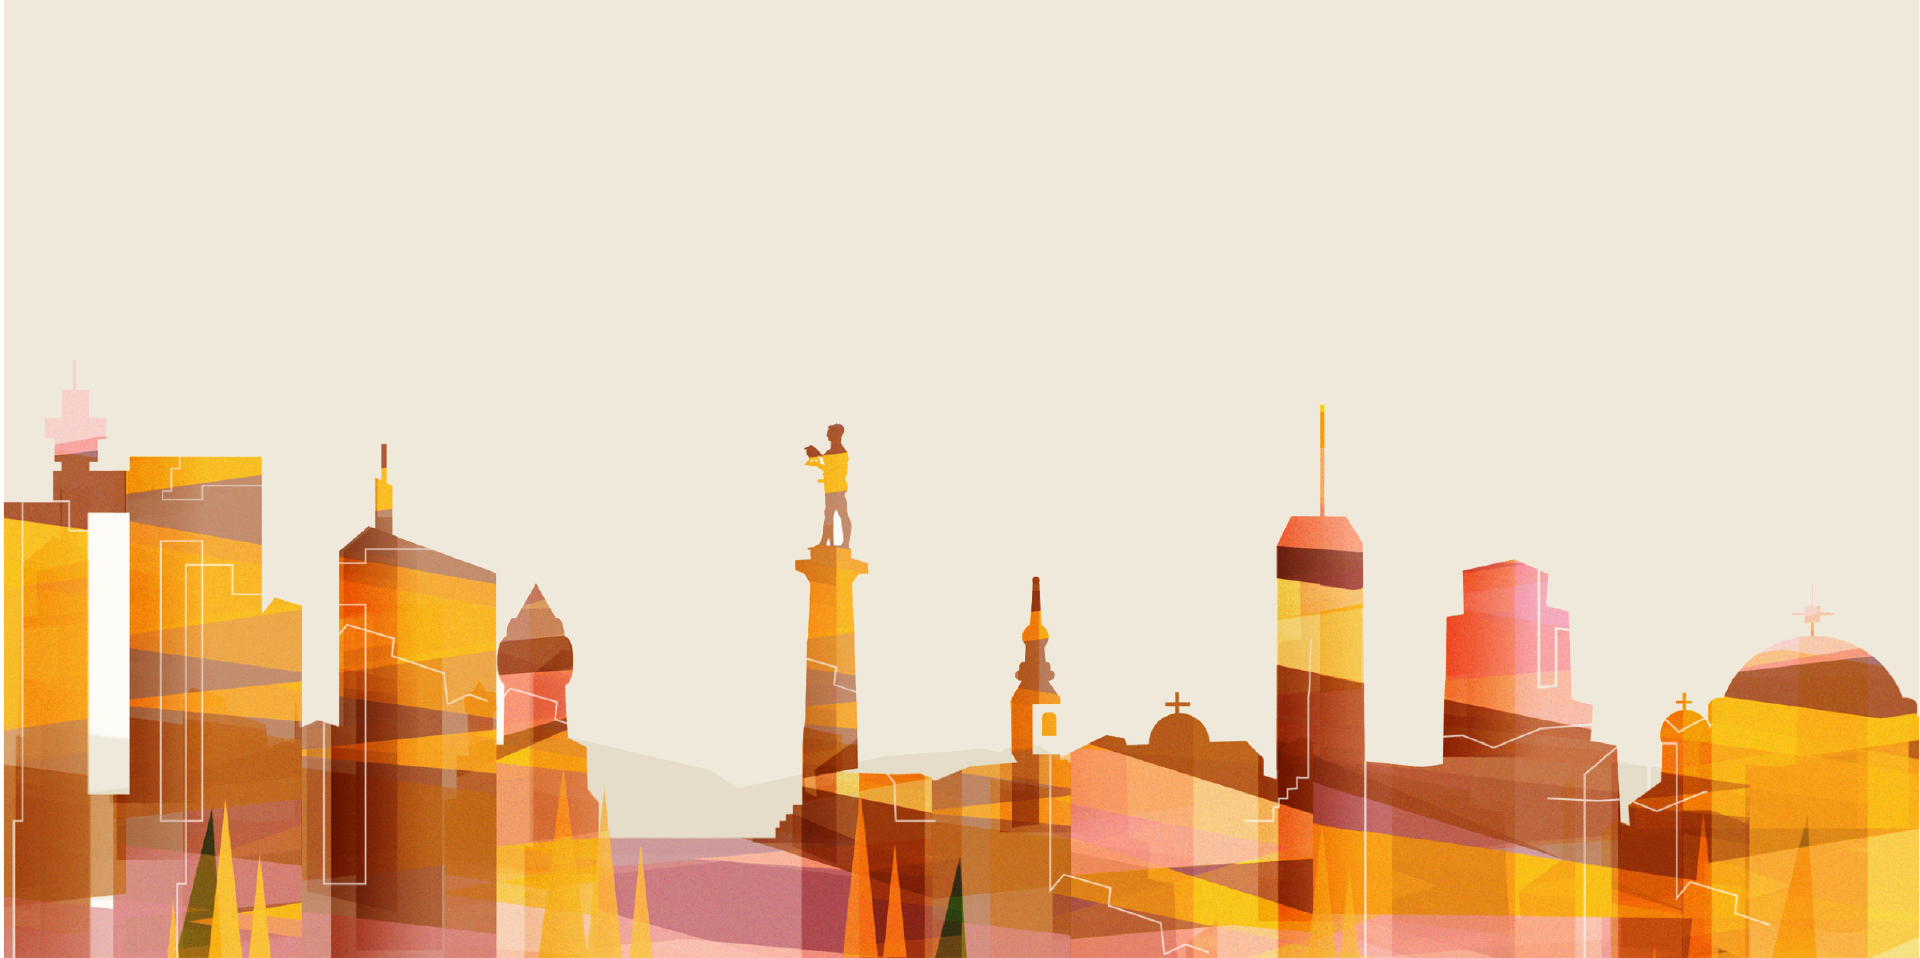
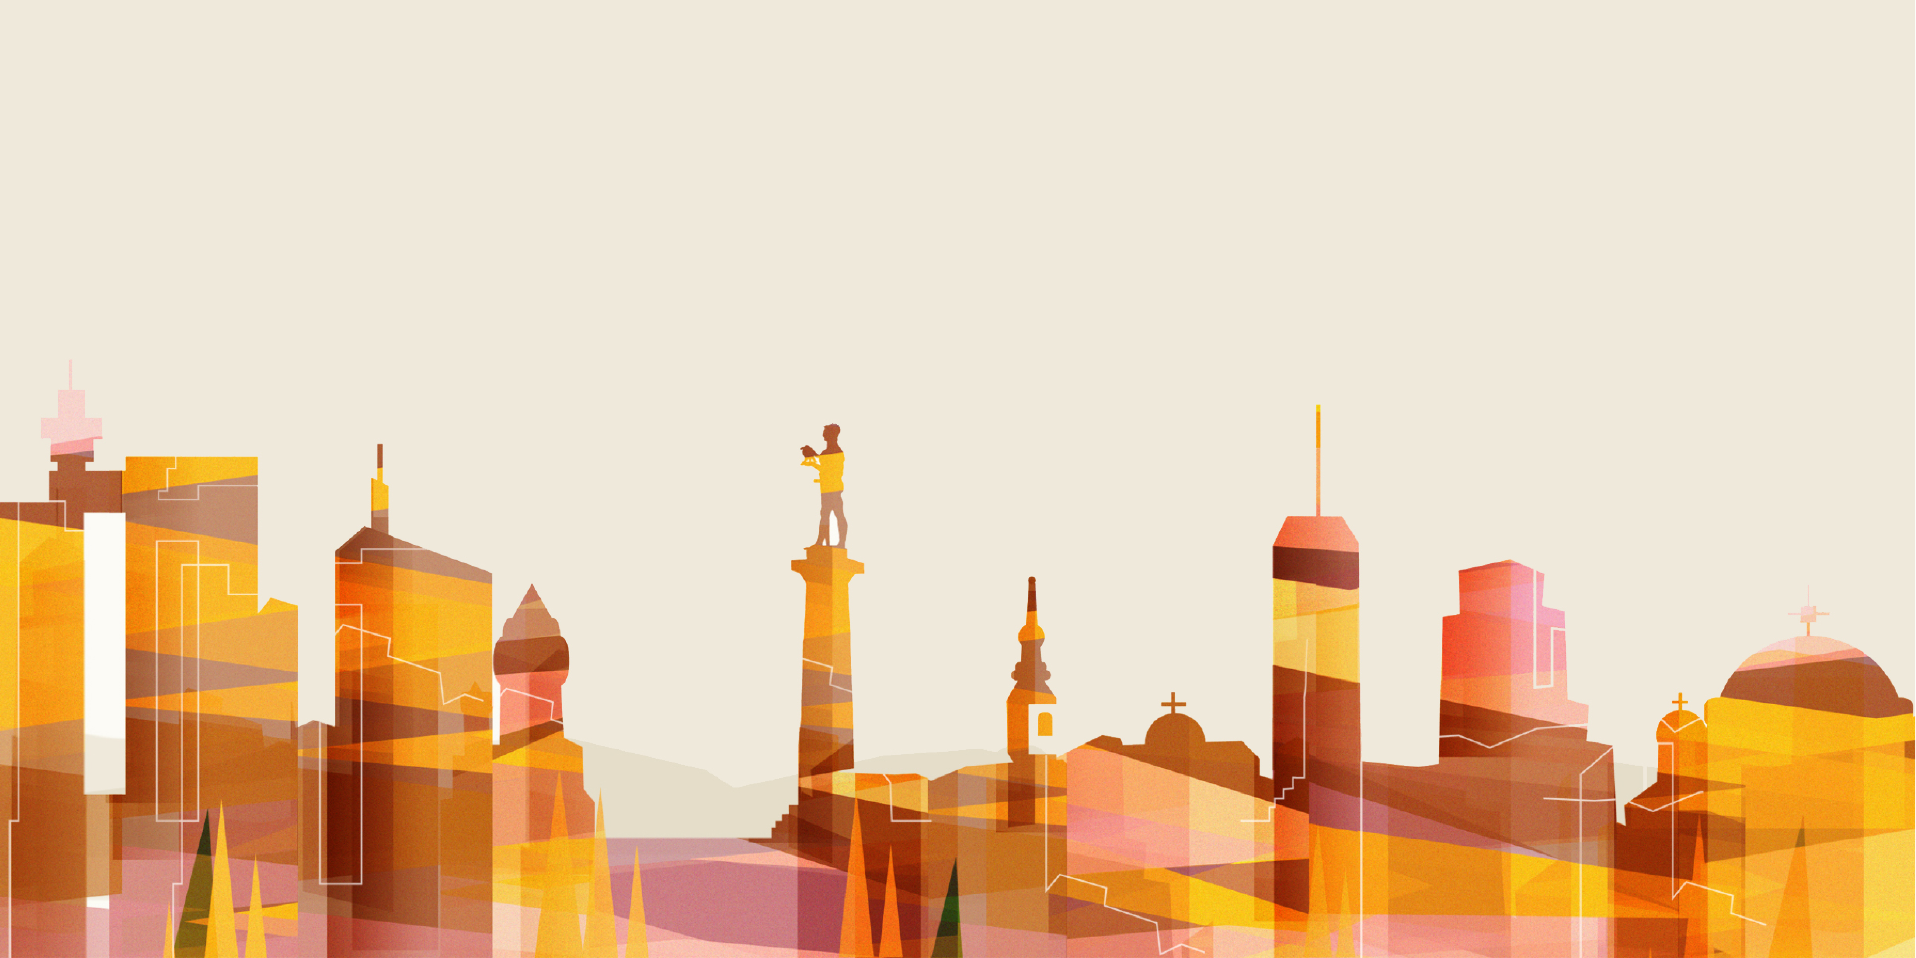
Uh, forgot to add checkpoints :D

diff --git a/index.html b/index.html
@@ -56,21 +56,23 @@
 
   <!-- Header -->
   <header>
-    <div class="navigation">
-      <nav>
-        <img src="" alt="logo">
-        <ul class="navlinks">
-          <li>O nama</li>
-          <li>Poslovi</li>
-          <li>Kontakt</li>
-        </ul>
-      </nav>
-    </div>
-    <div class="header-main-content">
-      <h1>Lorem ipsum dolor sit amet</h1>
-      <div class="bottom-line"></div>
-      <div class="header-text">
-        <p>Lorem ipsum dolor sit amet, consectetur adipiscing elit. Quisque sagittis at ipsum quis gravida.</p>
+    <div class="header-background">
+      <div class="navigation">
+        <nav>
+          <img src="https://placehold.it/200x50" alt="logo">
+          <ul class="navlinks">
+            <li>O nama</li>
+            <li>Poslovi</li>
+            <li>Kontakt</li>
+          </ul>
+        </nav>
+      </div>
+      <div class="header-main-content">
+        <h1>Diwanee Serbia</h1>
+        <div class="bottom-line"></div>
+        <div class="header-text">
+          <p>Digital Media Agency always looking for motivated, multi-talented and organized people to join our diverse team.</p>
+        </div>
       </div>
     </div>
   </header>
@@ -78,19 +80,19 @@
   <!-- Sections beneath the header -->
   <div class="header-section">
     <section id="development">
-      <img src="" alt="" class="section-logo">
+      <img src="https://placehold.it/100x100" alt="img" class="section-logo">
       <p class="section-title">Lorem ipsum</p>
       <div class="section-bottom-line"></div>
       <p class="section-text">Lorem ipsum dolor sit amet, consectetur adipiscing elit. Quisque sagittis at ipsum quis gravida.</p>
     </section>
     <section id="web_ui_design">
-      <img src="" alt="" class="section-logo">
+      <img src="https://placehold.it/100x100" alt="img" class="section-logo">
       <p class="section-title">Lorem ipsum</p>
       <div class="section-bottom-line"></div>
       <p class="section-text">Lorem ipsum dolor sit amet, consectetur adipiscing elit. Quisque sagittis at ipsum quis gravida.</p>
     </section>
     <section id="work_in_team">
-      <img src="" alt="" class="section-logo">
+      <img src="https://placehold.it/100x100" alt="img" class="section-logo">
       <p class="section-title">Lorem ipsum</p>
       <div class="section-bottom-line"></div>
       <p class="section-text">Lorem ipsum dolor sit amet, consectetur adipiscing elit. Quisque sagittis at ipsum quis gravida.</p>
@@ -100,66 +102,81 @@
   <!-- Jobs section -->
   <div class="jobs-section" id="jobs">
     <div class="jobs-main">
-      <p></p>
-      <h1></h1>
+      <p>Otvorene pozicije</p>
+      <h1>Poslovi</h1>
       <div class="jobs-bottom-line"></div>
-      <p></p>
+      <p>We are always looking for motivated, multi-talented, and ogranized people to join our diverse team</p>
     </div>
     <!-- First job -->
     <section id="first-job-post">
       <div class="job-description">
-        <h2 class="job-title"></h2>
-        <p class="job-description"></p>
-        <a href="#" class="job-skills"></a>
-        <a href="#" class="job-skills"></a>
-        <a href="#" class="job-skills"></a>
-      </div>
-      <div class="apply">
-        <a href="#" class="job-apply"></a>
+        <h2 class="job-title">Front-end Developer</h2>
+        <div class="apply">
+          <p class="job-description">Tražimo front-end developera sa odličnim poznavanjem i iskustvom više od godinu dana na Drupalu.
+          </p>
+          <a href="#" class="job-apply">Prijavi se</a>
+        </div>
+        <a href="#" class="job-skills">#HTML</a>
+        <a href="#" class="job-skills">#CSS</a>
+        <a href="#" class="job-skills">#JavaScript</a>
       </div>
     </section>
     <!-- Second job -->
     <section>
       <div class="job-description">
-        <h2 class="job-title"></h2>
-        <p class="job-description"></p>
-        <a href="#" class="job-skills"></a>
-        <a href="#" class="job-skills"></a>
-        <a href="#" class="job-skills"></a>
-      </div>
-      <div class="apply">
-        <a href="#" class="job-apply"></a>
+        <h2 class="job-title">Project Manager</h2>
+        <div class="apply">
+        <p class="job-description">Tražimo Project Managera sa odličnim organizacionim sposobnostima i iskustvom vođenja digital projekta...
+        </p>
+          <a href="#" class="job-apply">Prijavi se</a>
+        </div>
+        <a href="#" class="job-skills">#HTML</a>
+        <a href="#" class="job-skills">#CSS</a>
+        <a href="#" class="job-skills">#Balsamiq</a>
+        <a href="#" class="job-skills">#UXpin</a>
       </div>
     </section>
     <!-- Third job -->
     <section>
       <div class="job-description">
-        <h2 class="job-title"></h2>
-        <p class="job-description"></p>
-        <a href="#" class="job-skills"></a>
-        <a href="#" class="job-skills"></a>
-        <a href="#" class="job-skills"></a>
-      </div>
-      <div class="apply">
-        <a href="#" class="job-apply"></a>
+        <h2 class="job-title">UX/UI Designer</h2>
+        <div class="apply">
+        <p class="job-description">Ako si kreativan/a i voliš da radiš u timu, poseduješ višegodišnje iskustvo iz oblasti digital dizajna, ux/ui...
+        </p>
+          <a href="#" class="job-apply">Prijavi se</a>
+        </div>
+        <a href="#" class="job-skills">#Sketch</a>
+        <a href="#" class="job-skills">#AdobeXD</a>
+        <a href="#" class="job-skills">#Photoshop</a>
+        <a href="#" class="job-skills">#Balsamiq</a>
       </div>
     </section>
-    <a href="#" class="load-more-jobs"></a>
+    <a href="#" class="load-more-jobs">Učitaj još pozicija</a>
   </div>
 
   <!-- About us -->
   <div class="about-us" id="about">
     <div class="about-main">
-      <p></p>
-      <h1></h1>
+      <p>Diwanee Beograd</p>
+      <h1>Digital Media Company</h1>
       <div class="about-bottom-line"></div>
-      <p></p>
+      <p>Diwanee je digitalna medijska kompanija, okrenuta velikoj ženskoj publici na Bliskom istoku. Naša kompanija stvara
+        i distribuira originalan, visokokvalitetan i pouzdan sadržaj. Diwanee je takođe partner sa YouTube-om, i zajedno
+        smo pokrenuli kanal "DUNIATI", nudeći na taj način sve vrste bogatog video sadržaja za arapske žene širom sveta.
+        Radimo sa velikim brojem brendova radi povećanja angažovanja, a sve u digitalnom prostoru. Diwanee je partner i sa
+        velikim regionalnim vlasnicima medija, kako bismo upravljali svojom digitalnom prisutnošću.</p>
     </div>
   </div>
 
   <!-- Social media -->
   <div class="social-media">
-
+    <p>Pratite nas</p>
+    <div class="twitter">
+      <i class="fa fa-twitter"></i>
+    </div>
+    <div class="facebook">
+      <i class="fa fa-facebook"></i>
+    </div>
   </div>
 
   <!-- Footer -->
@@ -193,7 +210,7 @@
       </div>
     </div>
     <div class="copyright">
-      <p class="copyright-text">Copyright  2015 Diwanee Serbia all rights reserved</p>
+      <p class="copyright-text">Copyright 2015 Diwanee Serbia all rights reserved</p>
       <img src="" alt="" class="social-linkedin">
       <img src="" alt="" class="social-twitter">
       <p class="site-address">www.diwanee.com</p>

diff --git a/src/css/app.css b/src/css/app.css
@@ -1,23 +1,189 @@
 /* Varibles */
 
-:root {
-    
-}
+:root {}
 
 body {
     font-family: 'Roboto', sans-serif;
 }
 
+
 /* Header configs */
 
 header {
-    background: url('../img/header_bg.png');
-    background-position: center;
-    background-size: contain;
-    background-repeat: no-repeat;
+    width: 100%;
+    height: 100vh;
 }
+
+.header-background {
+    background: url('../img/header_bg.png');
+    background-position: 0% 0%;
+    background-size: cover;
+    background-repeat: no-repeat;
+    height: 100vh;
+}
+
+
+body > header > div > div.navigation {
+    display: inline-block;
+    width: 100%;
+    padding: 0 15px;
+    margin-left: auto;
+    margin-right: auto;
+}
+
+/* Logo in the header */
+
+body > header > div > div.navigation > nav > img {
+    position: relative;
+    float: left;
+}
+
+
+/* Nav Links */
+
+body > header > div > div.navigation > nav > ul {
+    position: relative;
+    float: right;
+}
+
+body > header > div > div.navigation > nav > ul > li {
+    display: inline;
+    padding: 0 5px;
+}
+
+
+/* Diwanee Serbian title in header */
+
+body > header > div > div.header-main-content {
+    position: relative;
+    width: 65%;
+    height: inherit;
+    display: block;
+    margin: 0 auto;
+}
+
+/* Mobile Phones and Tablets */
+@media screen and (max-width: 1200px) {
+    body > header > div > div.header-main-content {
+        width: 100%;
+        padding: 0 5px;
+    }
+}
+
+body > header > div > div.header-main-content > h1 {
+    font-size: 106px;
+    text-align: center;
+    text-transform: uppercase;
+}
+
+body > header > div > div.header-main-content > div.bottom-line {
+    display: block;
+    margin: 0 auto;
+    width: 10%;
+    height: 5px;
+    background: orangered;
+}
+
+body > header > div > div.header-main-content > div.header-text > p {
+    font-size: 36px;
+    text-align: center;
+}
+
+/* Sections beneath the header */
+body > div.header-section {
+    width: 100%;
+    height: inherit;
+}
+
+/* Development */
+#development {
+    display: inline-block;
+    background: #fbfbfb;
+    width: 33.333333%;
+    height: inherit;
+}
+
+/* Web & UI development */
+#web_ui_design {
+    display: inline-block;
+    background: #ededed;
+    width: 33.333333%;
+    height: inherit;
+}
+
+/* Work in team */
+#work_in_team {
+    display: inline-block;
+    background: #fbfbfb;
+    width: 33.333333%;
+    height: inherit;
+}
+
+/* Jobs section */
+#jobs {
+    width: 100%;
+    height: inherit;
+}
+#jobs > div.jobs-main {
+    display: block;
+    margin: 0 auto;
+    width: 65%;
+}
+#jobs > section > div {
+    margin: 0 auto;
+    width: 65%;
+    padding: 10px 0;
+}
+
+/* Main jobs section */
+
+#jobs > div > p:nth-child(1) {
+    text-align: center;
+}
+#jobs > div > h1 {
+    text-align: center;
+}
+#jobs > div > p:nth-child(4) {
+    text-align:center;
+}
+
+/* Jobs */
+section > div > div.apply {
+    display: inline-block;
+    width: 100%;
+}
+#jobs > section > div > div > p {
+    position: relative;
+    width: 50%;
+}
+
+section > div > div > a {
+    position: relative;
+    float: right;
+}
+
+/* Skills for jobs */
+#jobs > section > div > a {
+    padding: 5px;
+    border: 1px solid grey;
+    border-radius: 3px;
+    color: black;
+    text-decoration: none;
+}
+
+/* Project Manager job */
+#jobs > section:nth-child(3) {
+    background: #222;
+    color: white;
+}
+#jobs > section:nth-child(3) > div > a {
+    color: rgb(252, 41, 80);
+}
+
+
+
+
 
 /* Footer */
 
-footer {
-}
+footer {}
